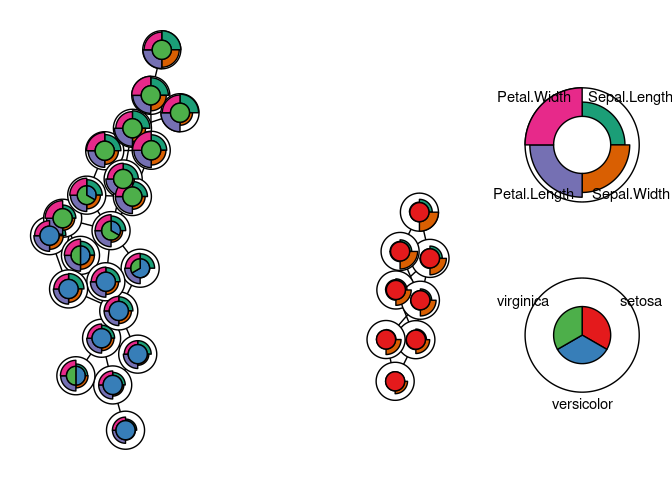
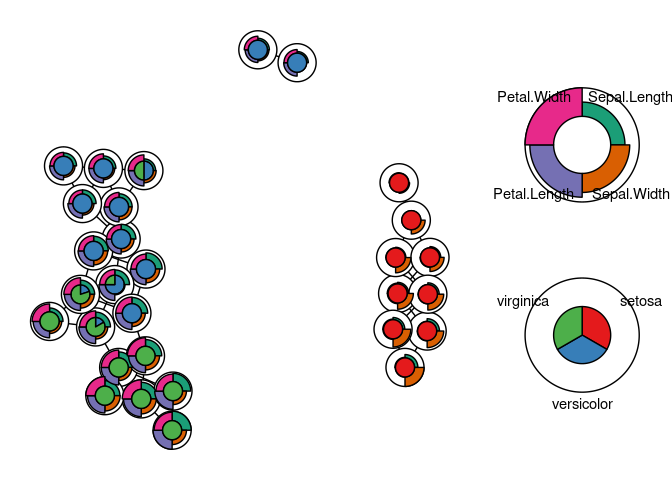
rerun readme once more

Changed region(s): [[0.0312, 0.0625, 0.3125, 0.9375], [0.5312, 0.3438, 0.6875, 0.8438], [0.3438, 0.0625, 0.4688, 0.1875]]

diff --git a/README.md b/README.md
@@ -22,6 +22,6 @@ You can run gng as follows:
 
 And visualise it as follows:
 
-    plot_gng(gng_fit, iris[,5], max_size = 0.05)
+    plot_gng(gng_fit, iris[,5], max_size = 0.05, max_size_legend = .15)
 
 ![](man/figures/README_plot-1.png)
